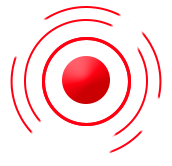
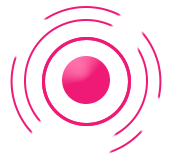
Implemented core functionality: score logic, timer, and winning score updates

diff --git a/src/GameLogic.cpp b/src/GameLogic.cpp
@@ -1,7 +1,9 @@
+// Anpassungen in GameLogic.cpp
 #include "GameLogic.hpp"
 #include "Video.hpp"
 #include <iostream>
 #include <cmath>
+#include <SFML/Graphics.hpp>
 
 GameLogic::GameLogic(TrackingPipeline &trackingPipeline)
     : tracking(trackingPipeline), score(0) {}
@@ -11,6 +13,8 @@ GameLogic::~GameLogic() {}
 void GameLogic::runSingleMode(cv::VideoCapture &cap)
 {
     cv::Mat frame;
+    sf::Clock clock;                      // Timer für das Spiel
+    sf::Time timeLimit = sf::seconds(60); // Zeitbegrenzung auf 1 Minute
 
     while (true)
     {
@@ -43,6 +47,19 @@ void GameLogic::runSingleMode(cv::VideoCapture &cap)
             // Punktzahl anzeigen
             drawScore(frame);
 
+            // Zeit anzeigen
+            sf::Time elapsedTime = clock.getElapsedTime();
+            int remainingTime = static_cast<int>(timeLimit.asSeconds() - elapsedTime.asSeconds());
+            cv::putText(frame, "Time: " + std::to_string(remainingTime) + " s", cv::Point(10, 100),
+                        cv::FONT_HERSHEY_SIMPLEX, 1, cv::Scalar(0, 0, 255), 2);
+
+            // Wenn die Zeit abgelaufen ist, beende das Spiel
+            if (elapsedTime >= timeLimit)
+            {
+                std::cout << "Time's up!" << std::endl;
+                break;
+            }
+
             // Ergebnis anzeigen
             cv::imshow("Single Mode", frame);
         }
@@ -59,6 +76,9 @@ void GameLogic::runSingleMode(cv::VideoCapture &cap)
             break;
         }
     }
+
+    // Endbildschirm anzeigen
+    displayEndScreen();
     cv::destroyAllWindows(); // Fenster schließen
 }
 
@@ -68,9 +88,13 @@ void GameLogic::handleCollisions(const std::vector<cv::Point> &contour)
                        {
         for (const cv::Point& point : contour) {
             if (cv::norm(cv::Point(ball.getX(), ball.getY()) - point) <= ball.radius) {
-                // Punktzahl erhöhen und Ball entfernen
-                score++;
-                std::cout << "Punkt erzielt! Aktuelle Punktzahl: " << score << std::endl;
+                // Punktelogik basierend auf der Farbe des Balls
+                if (ball.getColor() == cv::Scalar(0, 255, 0)) {
+                    score++; // Grüner Ball: +1 Punkt
+                } else if (ball.getColor() == cv::Scalar(255, 187, 255)) {
+                    score = std::max(0, score - 1); // Pinkfarbener Ball: -1 Punkt, nicht unter 0
+                }
+                std::cout << "Aktuelle Punktzahl: " << score << std::endl;
                 return true;
             }
         }
@@ -79,6 +103,65 @@ void GameLogic::handleCollisions(const std::vector<cv::Point> &contour)
 
 void GameLogic::drawScore(cv::Mat &frame)
 {
-    cv::putText(frame, "Punktzahl: " + std::to_string(score), cv::Point(10, 50),
-                cv::FONT_HERSHEY_SIMPLEX, 1, cv::Scalar(0, 255, 0), 2);
+    cv::putText(frame, "Score: " + std::to_string(score), cv::Point(10, 50),
+                cv::FONT_HERSHEY_SIMPLEX, 1, cv::Scalar(238, 26, 118), 2);
+    cv::putText(frame, "Winning Score: 15", cv::Point(10, frame.rows - 20),
+                cv::FONT_HERSHEY_SIMPLEX, 1, cv::Scalar(0, 0, 255), 2);
+}
+
+void GameLogic::displayEndScreen()
+{
+    sf::RenderWindow endWindow(sf::VideoMode(800, 600), "Game Over");
+
+    sf::Texture backgroundTexture;
+    if (!backgroundTexture.loadFromFile("assets/fotos/results.jpg"))
+    {
+        std::cerr << "Fehler beim Laden des Hintergrundbildes!" << std::endl;
+        return;
+    }
+    sf::Sprite backgroundSprite;
+    backgroundSprite.setTexture(backgroundTexture);
+
+    sf::Font font;
+    if (!font.loadFromFile("font/Game-Of-Squids.ttf"))
+    {
+        std::cerr << "Fehler beim Laden der Schriftart!" << std::endl;
+        return;
+    }
+
+    sf::Text resultText;
+    resultText.setFont(font);
+    resultText.setCharacterSize(50);
+    resultText.setFillColor(sf::Color::White);
+    resultText.setStyle(sf::Text::Bold);
+    resultText.setPosition(200, 250);
+
+    const int targetScore = 15; // Beispielziel
+    if (score >= targetScore)
+    {
+        resultText.setString("Success! Score: " + std::to_string(score));
+        resultText.setFillColor(sf::Color::Blue);
+    }
+    else
+    {
+        resultText.setString("Failed! Score: " + std::to_string(score));
+        resultText.setFillColor(sf::Color::Red);
+    }
+
+    while (endWindow.isOpen())
+    {
+        sf::Event event;
+        while (endWindow.pollEvent(event))
+        {
+            if (event.type == sf::Event::Closed)
+            {
+                endWindow.close();
+            }
+        }
+
+        endWindow.clear();
+        endWindow.draw(backgroundSprite);
+        endWindow.draw(resultText);
+        endWindow.display();
+    }
 }

diff --git a/src/Ball.cpp b/src/Ball.cpp
@@ -1,36 +1,44 @@
+// Anpassungen in Ball.cpp
 #include "Ball.hpp"
+#include <random>
 
 // Globale Liste für Bälle
 std::list<Ball> ballList;
 
-// Konstruktor: Erstellt einen neuen Ball mit festgelegter Farbe
-Ball::Ball(int row, int col) {
+// Konstruktor: Erstellt einen neuen Ball mit zufälliger Farbe
+Ball::Ball(int row, int col)
+{
     std::random_device rd;
     std::mt19937 gen(rd());
     std::uniform_real_distribution<float> distX(-0.5f, 0.5f);
-    std::uniform_real_distribution<float> distY(1.0f, 3.0f); // Vertikale Geschwindigkeit angepasst
+    std::uniform_real_distribution<float> distY(1.0f, 3.0f);
 
-    radius = std::uniform_int_distribution<int>(20, 40)(gen); // Radius erhöht
-    x = std::uniform_int_distribution<int>(radius, col - radius)(gen); // Verhindere Start außerhalb des Bereichs
+    radius = std::uniform_int_distribution<int>(20, 40)(gen);
+    x = std::uniform_int_distribution<int>(radius, col - radius)(gen);
     y = 0; // Start oben am Bildschirmrand
-    vx = distX(gen); // Geschwindigkeit in x-Richtung
-    vy = distY(gen); // Geschwindigkeit in y-Richtung (sollte positiv sein)
+    vx = distX(gen);
+    vy = distY(gen);
 
-    // Feste Farbe für alle Bälle
-    color = cv::Scalar(255, 187, 255); // Pinkfarbene Bälle
+    // Zufällige Farbzuweisung
+    color = (std::uniform_int_distribution<int>(0, 1)(gen) == 0)
+                ? cv::Scalar(0, 255, 0)      // Grün
+                : cv::Scalar(255, 187, 255); // Pink
 }
 
 // Verschiebt den Ball basierend auf seiner Geschwindigkeit
-void Ball::move(float deltaTime, int cols) {
+void Ball::move(float deltaTime, int cols)
+{
     x += static_cast<int>(vx * deltaTime);
     y += static_cast<int>(vy * deltaTime);
 
-    // Begrenzung auf den sichtbaren Bereich
-    if (x - radius < 0) { // Linker Rand
+    if (x - radius < 0)
+    {
         x = radius;
-        vx = -vx; // Richtung umkehren
-    } else if (x + radius > cols) { // Rechter Rand
+        vx = -vx;
+    }
+    else if (x + radius > cols)
+    {
         x = cols - radius;
-        vx = -vx; // Richtung umkehren
+        vx = -vx;
     }
 }

diff --git a/src/startmenu.cpp b/src/startmenu.cpp
@@ -50,7 +50,7 @@ StartMenu::StartMenu(float width, float height)
     {
         menu[i].setFont(font);
         menu[i].setString(options[i]);
-        menu[i].setFillColor(i == 0 ? sf::Color(255, 0, 29) : sf::Color::White); // Markiert als ausgewählte Option
+        menu[i].setFillColor(i == 0 ? sf::Color(238, 26, 118) : sf::Color::White); // Markiert als ausgewählte Option
         menu[i].setCharacterSize(25);
         menu[i].setPosition((width - menu[i].getGlobalBounds().width) / 2,
                             height / (MAX_NUMBER_OF_ITEMS + 1) * (i + 1) + verticalOffset);
@@ -86,7 +86,7 @@ void StartMenu::MoveUp()
     {
         menu[selectedItemIndex].setFillColor(sf::Color::White); // Alte Auswahlfarbe zurücksetzen
         selectedItemIndex--;
-        menu[selectedItemIndex].setFillColor(sf::Color(255, 0, 29));  // Neue Auswahl markieren
+        menu[selectedItemIndex].setFillColor(sf::Color(238, 26, 118)); // Neue Auswahl markieren
         updateIconPosition(backgroundSprite.getGlobalBounds().width); // Symbol neu positionieren
     }
 }
@@ -100,7 +100,7 @@ void StartMenu::MoveDown()
     {
         menu[selectedItemIndex].setFillColor(sf::Color::White); // Alte Auswahlfarbe zurücksetzen
         selectedItemIndex++;
-        menu[selectedItemIndex].setFillColor(sf::Color(255, 0, 29));  // Neue Auswahl markieren
+        menu[selectedItemIndex].setFillColor(sf::Color(238, 26, 118)); // Neue Auswahl markieren
         updateIconPosition(backgroundSprite.getGlobalBounds().width); // Symbol neu positionieren
     }
 }

diff --git a/include/GameLogic.hpp b/include/GameLogic.hpp
@@ -20,6 +20,7 @@ private:
 
     void handleCollisions(const std::vector<cv::Point> &contour);
     void drawScore(cv::Mat &frame);
+    void displayEndScreen(); // Deklaration der Methode für den Endbildschirm
 };
 
 #endif // GAMELOGIC_HPP
